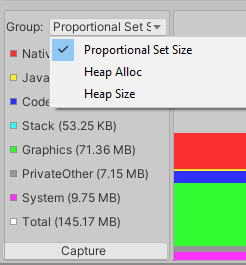
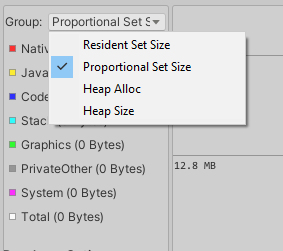
Fix Memory window on Android 11 + tests

diff --git a/com.unity.mobile.android-logcat/Tests/Editor/AndroidLogcatMemoryTests.cs b/com.unity.mobile.android-logcat/Tests/Editor/AndroidLogcatMemoryTests.cs
@@ -7,7 +7,7 @@ public class AndroidLogcatMemoryTests
     const int kKiloByte = 1000;
 
     // Produced by adb.exe shell dumpsys meminfo com.unity.TowerDefenceIncremental
-    const string kPackageMemoryDump = @"
+    readonly string kPackageMemoryDump = @"
 Applications Memory Usage(in Kilobytes) :
 Uptime: 277764755 Realtime: 525450147
 
@@ -58,10 +58,64 @@ Uptime: 277764755 Realtime: 525450147
  SQL
          MEMORY_USED:        0
   PAGECACHE_OVERFLOW:        0          MALLOC_SIZE:        0
-";
+".Replace("\r", "");
+    // Taken from Google Pixel 2 with Android 11
+    readonly string kPackageMemoryDumpAndroid11 = @"
+Applications Memory Usage (in Kilobytes):
+Uptime: 502048736 Realtime: 502048736
+
+** MEMINFO in pid 14978 [com.DefaultCompany.MemoryTests] **
+                   Pss  Private  Private  SwapPss      Rss     Heap     Heap     Heap
+                 Total    Dirty    Clean    Dirty    Total     Size    Alloc     Free
+                ------   ------   ------   ------   ------   ------   ------   ------
+  Native Heap   396846   396792        0        0   399380   550768   504803    40775
+  Dalvik Heap     1003      888        0        0     5308    16146    12110     4036
+ Dalvik Other     1146      776        0        0     2092
+        Stack     1536     1536        0        0     1548
+       Ashmem        4        0        0        0       12
+      Gfx dev    35076    34948      128        0    35076
+    Other dev      153       84       48        0      472
+     .so mmap    48617     1828    44328        3    65940
+    .jar mmap     2011        0      268        0    16112
+    .apk mmap      154        0        0        0     6612
+    .dex mmap      178      140       36        0      216
+    .oat mmap       70        0       44        0      764
+    .art mmap     9554     8844      420       12    19424
+   Other mmap     1334        8     1324        0     1736
+   EGL mtrack    49956    49956        0        0    49956
+      Unknown   140908   140900        0        0   141484
+        TOTAL   688561   636700    46596       15   688561   566914   516913    44811
+
+ App Summary
+                       Pss(KB)                        Rss(KB)
+                        ------                         ------
+           Java Heap:    10152                          24732
+         Native Heap:   396792                         399380
+                Code:    46672                          90480
+               Stack:     1536                           1548
+            Graphics:    85032                          85032
+       Private Other:   143112
+              System:     5265
+             Unknown:                                  144960
+
+           TOTAL PSS:   688561            TOTAL RSS:   746132       TOTAL SWAP PSS:       15
+
+ Objects
+               Views:        8         ViewRootImpl:        1
+         AppContexts:        5           Activities:        1
+              Assets:       12        AssetManagers:        0
+       Local Binders:       16        Proxy Binders:       36
+       Parcel memory:        7         Parcel count:       29
+    Death Recipients:        0      OpenSSL Sockets:        0
+            WebViews:        0
+
+ SQL
+         MEMORY_USED:        0
+  PAGECACHE_OVERFLOW:        0          MALLOC_SIZE:        0
+".Replace("\r", "");
 
     // adb.exe shell dumpsys meminfo sensors.qcom
-    const string kSystemProcessDump = @"
+    readonly string kSystemProcessDump = @"
 Applications Memory Usage (in Kilobytes):
 Uptime: 278194816 Realtime: 525880208
                    Pss  Private  Private  SwapPss     Heap     Heap     Heap
@@ -90,7 +144,7 @@ Uptime: 278194816 Realtime: 525880208
                TOTAL:     1383       TOTAL SWAP PSS:      880
 ";
 
-    const string kProcessWithHugeValues = @"
+    readonly string kProcessWithHugeValues = @"
 Applications Memory Usage (in Kilobytes):
 Uptime: 278194816 Realtime: 525880208
                    Pss  Private  Private  SwapPss     Heap     Heap     Heap
@@ -117,13 +171,16 @@ Uptime: 278194816 Realtime: 525880208
               System:      903
 
                TOTAL:     1383       TOTAL SWAP PSS:      880
-";
+".Replace("\r", "");
 
     [Test]
-    public void CanParseMemoryDumpFromPackage()
+    public void CanParseMemoryDumpFromPackage([Values(true, false)] bool windowsEndLines)
     {
         var stats = new AndroidMemoryStatistics();
-        stats.Parse(kPackageMemoryDump);
+        if (windowsEndLines)
+            stats.Parse(kPackageMemoryDump.Replace("\n", "\r\n"));
+        else
+            stats.Parse(kPackageMemoryDump);
 
         Assert.AreEqual(312674 * kKiloByte, stats.GetValue(MemoryGroup.ProportionalSetSize, MemoryType.Total));
         Assert.AreEqual(169230 * kKiloByte, stats.GetValue(MemoryGroup.ProportionalSetSize, MemoryType.System));
@@ -132,16 +189,52 @@ Uptime: 278194816 Realtime: 525880208
         Assert.AreEqual(36 * kKiloByte, stats.GetValue(MemoryGroup.ProportionalSetSize, MemoryType.Stack));
         Assert.AreEqual(1234 * kKiloByte, stats.GetValue(MemoryGroup.ProportionalSetSize, MemoryType.JavaHeap));
 
+        Assert.AreEqual(0, stats.GetValue(MemoryGroup.ResidentSetSize, MemoryType.NativeHeap));
+        Assert.AreEqual(0, stats.GetValue(MemoryGroup.ResidentSetSize, MemoryType.Total));
+
         Assert.AreEqual(157805 * kKiloByte, stats.GetValue(MemoryGroup.HeapAlloc, MemoryType.NativeHeap));
         Assert.AreEqual(1184 * kKiloByte, stats.GetValue(MemoryGroup.HeapAlloc, MemoryType.JavaHeap));
     }
 
     [Test]
-    public void CanParseMemoryDumpFromProcess()
+    public void CanParseMemoryDumpFromPackageWithAndroid11([Values(true, false)] bool windowsEndLines)
     {
         var stats = new AndroidMemoryStatistics();
-        stats.Parse(kSystemProcessDump);
 
+        if (windowsEndLines)
+            stats.Parse(kPackageMemoryDumpAndroid11.Replace("\n", "\r\n"));
+        else
+            stats.Parse(kPackageMemoryDumpAndroid11);
+
+        Assert.AreEqual(688561 * kKiloByte, stats.GetValue(MemoryGroup.ProportionalSetSize, MemoryType.Total));
+        Assert.AreEqual(5265 * kKiloByte, stats.GetValue(MemoryGroup.ProportionalSetSize, MemoryType.System));
+        Assert.AreEqual(396792 * kKiloByte, stats.GetValue(MemoryGroup.ProportionalSetSize, MemoryType.NativeHeap));
+        Assert.AreEqual(85032 * kKiloByte, stats.GetValue(MemoryGroup.ProportionalSetSize, MemoryType.Graphics));
+        Assert.AreEqual(1536 * kKiloByte, stats.GetValue(MemoryGroup.ProportionalSetSize, MemoryType.Stack));
+        Assert.AreEqual(10152 * kKiloByte, stats.GetValue(MemoryGroup.ProportionalSetSize, MemoryType.JavaHeap));
+
+        Assert.AreEqual(746132 * kKiloByte, stats.GetValue(MemoryGroup.ResidentSetSize, MemoryType.Total));
+        Assert.AreEqual(0 * kKiloByte, stats.GetValue(MemoryGroup.ResidentSetSize, MemoryType.System));
+        Assert.AreEqual(399380 * kKiloByte, stats.GetValue(MemoryGroup.ResidentSetSize, MemoryType.NativeHeap));
+        Assert.AreEqual(85032 * kKiloByte, stats.GetValue(MemoryGroup.ResidentSetSize, MemoryType.Graphics));
+        Assert.AreEqual(1548 * kKiloByte, stats.GetValue(MemoryGroup.ResidentSetSize, MemoryType.Stack));
+        Assert.AreEqual(24732 * kKiloByte, stats.GetValue(MemoryGroup.ResidentSetSize, MemoryType.JavaHeap));
+
+        Assert.AreEqual(504803 * kKiloByte, stats.GetValue(MemoryGroup.HeapAlloc, MemoryType.NativeHeap));
+        Assert.AreEqual(12110 * kKiloByte, stats.GetValue(MemoryGroup.HeapAlloc, MemoryType.JavaHeap));
+        Assert.AreEqual(550768 * kKiloByte, stats.GetValue(MemoryGroup.HeapSize, MemoryType.NativeHeap));
+        Assert.AreEqual(16146 * kKiloByte, stats.GetValue(MemoryGroup.HeapSize, MemoryType.JavaHeap));
+    }
+
+    [Test]
+    public void CanParseMemoryDumpFromProcess([Values(true, false)] bool windowsEndLines)
+    {
+        var stats = new AndroidMemoryStatistics();
+
+        if (windowsEndLines)
+            stats.Parse(kSystemProcessDump.Replace("\n", "\r\n"));
+        else
+            stats.Parse(kSystemProcessDump);
 
         Assert.AreEqual(1383 * kKiloByte, stats.GetValue(MemoryGroup.ProportionalSetSize, MemoryType.Total));
         Assert.AreEqual(903 * kKiloByte, stats.GetValue(MemoryGroup.ProportionalSetSize, MemoryType.System));
@@ -156,7 +249,7 @@ Uptime: 278194816 Realtime: 525880208
     }
 
     [Test]
-    public void CanParseHugeValues()
+    public void CanParseHugeValues([Values(true, false)] bool windowsEndLines)
     {
         const UInt64 kOneMegaByte = 1000;
         const UInt64 kOneGigabyte = 1000 * kOneMegaByte;
@@ -167,8 +260,12 @@ Uptime: 278194816 Realtime: 525880208
         {
             // Note: Report contains values in kilobytes
             var contents = string.Format(kProcessWithHugeValues, i);
+
             var stats = new AndroidMemoryStatistics();
-            stats.Parse(contents);
+            if (windowsEndLines)
+                stats.Parse(contents.Replace("\n", "\r\n"));
+            else
+                stats.Parse(contents);
             Assert.AreEqual(i * kKiloByte, stats.GetValue(MemoryGroup.HeapAlloc, MemoryType.NativeHeap));
         }
     }

diff --git a/com.unity.mobile.android-logcat/Editor/AndroidMemoryStatistics.cs b/com.unity.mobile.android-logcat/Editor/AndroidMemoryStatistics.cs
@@ -10,6 +10,7 @@ namespace Unity.Android.Logcat
     /// </summary>
     internal enum MemoryGroup
     {
+        ResidentSetSize,
         ProportionalSetSize,
         HeapAlloc,
         HeapSize
@@ -36,9 +37,19 @@ namespace Unity.Android.Logcat
         private MemoryGroup[] m_MemoryGroups = (MemoryGroup[])Enum.GetValues(typeof(MemoryGroup));
         private Dictionary<MemoryType, UInt64>[] m_Data = new Dictionary<MemoryType, UInt64>[Enum.GetValues(typeof(MemoryGroup)).Length];
 
+        private Regex m_RssAvailable = new Regex(@"Pss\s+Private\s+Private\s+SwapPss\s+Rss\s+Heap\s+Heap\s+Heap", RegexOptions.IgnoreCase);
+        private Regex m_PssOnlyData = new Regex(@"([\w\s]+):\s+(\d+).*", RegexOptions.IgnoreCase);
+        private Regex m_PssAndRssData = new Regex(@"([\w\s]+):\s+(\d+)\s*(\d*)\n", RegexOptions.IgnoreCase);
+        private Regex m_PssAndRssTotal = new Regex(@"\s+TOTAL PSS:\s+(\d+)\s+TOTAL RSS:\s+(\d+).*", RegexOptions.IgnoreCase);
+
         private Dictionary<MemoryType, UInt64> GetPSSMemoryGroup()
         {
             return m_Data[(int)MemoryGroup.ProportionalSetSize];
+        }
+
+        private Dictionary<MemoryType, UInt64> GetRSSMemoryGroup()
+        {
+            return m_Data[(int)MemoryGroup.ResidentSetSize];
         }
 
         private Dictionary<MemoryType, UInt64> GetHeapAllocGroup()
@@ -86,26 +97,50 @@ namespace Unity.Android.Logcat
             }
         }
 
-        internal void ParseAppSummary(string appSummary)
+        private void ParseAppSummaryData(Match match, int groupId, Dictionary<MemoryType, UInt64> data)
         {
-            Dictionary<MemoryType, UInt64> data = GetPSSMemoryGroup();
-            string pattern = @"([\w\s]+):\s+(\d+)";
+            var name = match.Groups[1].Value.Trim().ToLower();
+            var value = match.Groups[groupId].Value;
+            var sizeInKBytes = string.IsNullOrEmpty(value) ? 0 : UInt64.Parse(value);
+            MemoryType type = NameToMemoryType(name);
+            if (type != MemoryType.Unknown)
+                data[type] = sizeInKBytes * kOneKiloByte;
+        }
 
-            Regex r = new Regex(pattern, RegexOptions.IgnoreCase);
-            MatchCollection matches = r.Matches(appSummary);
-            UInt64 dummy;
-            foreach (Match match in matches)
+        private void ParseAppSummary(string appSummary)
+        {
+            Dictionary<MemoryType, UInt64> pssData = GetPSSMemoryGroup();
+            Dictionary<MemoryType, UInt64> rssData = GetRSSMemoryGroup();
+
+            bool rssDataAvailable = appSummary.Contains("Rss(KB)");
+            MatchCollection matches;
+            if (rssDataAvailable)
             {
-                var name = match.Groups[1].Value.Trim().ToLower();
-                var sizeInKBytes = UInt64.Parse(match.Groups[2].Value);
-                MemoryType type = NameToMemoryType(name);
-                if (type != MemoryType.Unknown)
-                    data[type] = sizeInKBytes * kOneKiloByte;
+                matches = m_PssAndRssData.Matches(appSummary);
+                foreach (Match match in matches)
+                {
+                    ParseAppSummaryData(match, 2, pssData);
+                    ParseAppSummaryData(match, 3, rssData);
+                }
+
+                var totalMemoryMatch = m_PssAndRssTotal.Match(appSummary);
+                if (!totalMemoryMatch.Success)
+                    throw new Exception("Failed to find total pss and rss size in\n" + appSummary);
+
+                pssData[MemoryType.Total] = UInt64.Parse(totalMemoryMatch.Groups[1].Value) * kOneKiloByte;
+                rssData[MemoryType.Total] = UInt64.Parse(totalMemoryMatch.Groups[2].Value) * kOneKiloByte;
+            }
+            else
+            {
+                matches = m_PssOnlyData.Matches(appSummary);
+                foreach (Match match in matches)
+                    ParseAppSummaryData(match, 2, pssData);
             }
 
-            if (!data.TryGetValue(MemoryType.NativeHeap, out dummy))
+            UInt64 dummy;
+            if (!pssData.TryGetValue(MemoryType.NativeHeap, out dummy))
             {
-                throw new Exception("Failed to find native heap size in\n" + appSummary);
+                throw new Exception("Failed to find pss native heap size in\n" + appSummary);
             }
         }
 
@@ -123,7 +158,11 @@ namespace Unity.Android.Logcat
 
         internal void ParseHeapInformation(string heapInformation)
         {
-            var postFix = @"\s+\S+\s+\S+\s+\S+\s+\S+\s+(?<heapSize>\S+)\s+(?<heapAlloc>\S+)\s+\S+";
+            string postFix;
+            if (m_RssAvailable.Match(heapInformation).Success)
+                postFix = @"\s+\S+\s+\S+\s+\S+\s+\S+\s+(?<rssSize>\S+)\s+(?<heapSize>\S+)\s+(?<heapAlloc>\S+)\s+\S+";
+            else
+                postFix = @"\s+\S+\s+\S+\s+\S+\s+\S+\s+(?<heapSize>\S+)\s+(?<heapAlloc>\S+)\s+\S+";
 
             Regex native = new Regex("Native Heap" + postFix, RegexOptions.IgnoreCase);
             Regex java = new Regex("Dalvik Heap" + postFix, RegexOptions.IgnoreCase);
@@ -175,6 +214,7 @@ namespace Unity.Android.Logcat
             int appSummary = contents.IndexOf("App Summary");
             if (appSummary == -1)
                 throw new Exception("Failed to find App Summary:\n" + contents);
+            contents = contents.Replace("\r", "");
             ParseHeapInformation(contents.Substring(0, appSummary));
             ParseAppSummary(contents.Substring(appSummary));
         }

diff --git a/TestProjects/MemoryTests/Assets/MemoryAllocations.cs b/TestProjects/MemoryTests/Assets/MemoryAllocations.cs
@@ -4,7 +4,6 @@ using System.Linq;
 using System.Collections.Generic;
 using System.Runtime.InteropServices;
 using UnityEngine;
-using UnityEngine.UI;
 
 public class MemoryAllocations : MonoBehaviour
 {

diff --git a/com.unity.mobile.android-logcat/Documentation~/MemoryWindow.md b/com.unity.mobile.android-logcat/Documentation~/MemoryWindow.md
@@ -39,6 +39,12 @@ Here's an example of memory dump:
 
 <img hspace="25" src="images/MemoryGroups.png">
 
+* **Resident Set Size (PSS)**
+ 
+  The total **used** memory of the application which is currently stored in RAM, unlike **PSS** memory, **RSS** will include both shared and non-shared memory pages.
+
+  **Note:** This metric is only visible on Android 11 or higher.
+
 * **Proportional Set Size (PSS)**
  
   The total **used** memory of the application which is currently stored in RAM. This is not the **total** memory which your application has allocated.

diff --git a/com.unity.mobile.android-logcat/CHANGELOG.md b/com.unity.mobile.android-logcat/CHANGELOG.md
@@ -8,6 +8,8 @@ and this project adheres to [Semantic Versioning](http://semver.org/spec/v2.0.0.
 
 ### Fix & Improvements.
  - Removed limitation where Android Logcat could only be used while active Editor platform is Android. Note: Android Support is still required to be installed for Android Logcat to work.
+ - Fix Memory Window on Android 11. Android 11 started dumping RSS memory, which was previously unexpected by Memory Window.
+ - Include RSS memory in Memory window. 
 
 ## [1.2.0] - 2020-08-18
 
